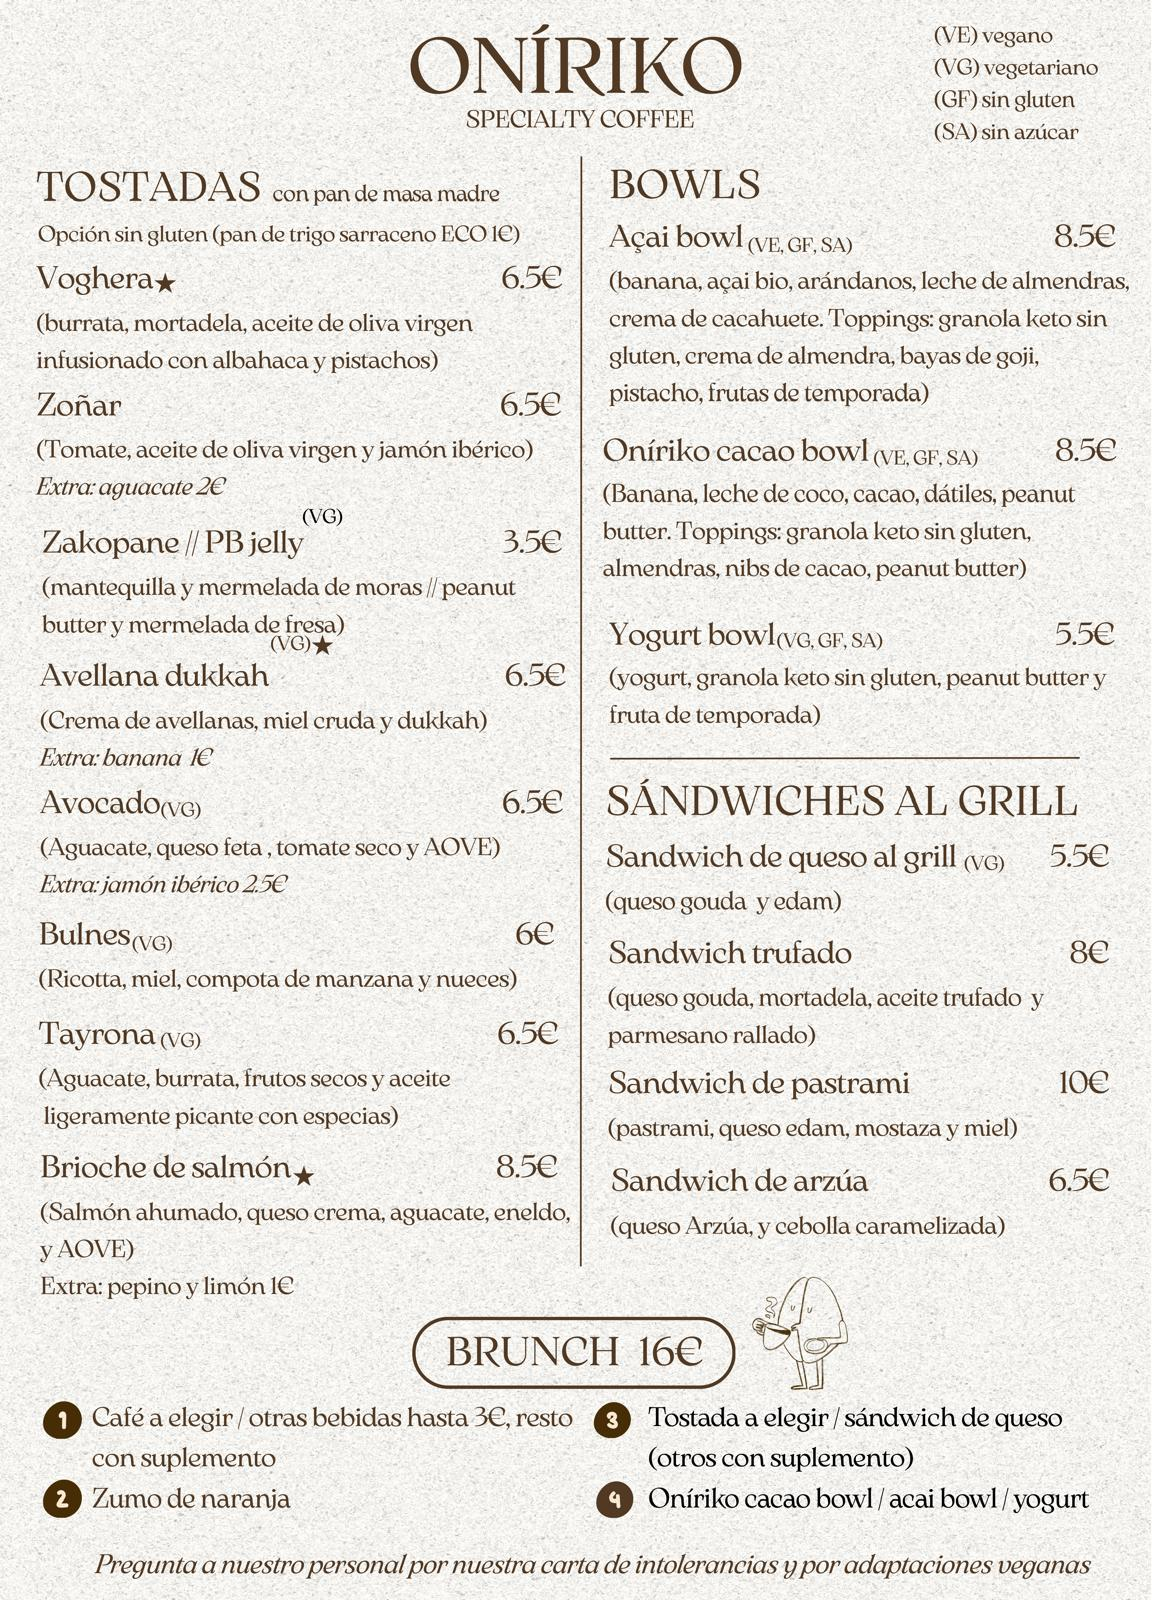
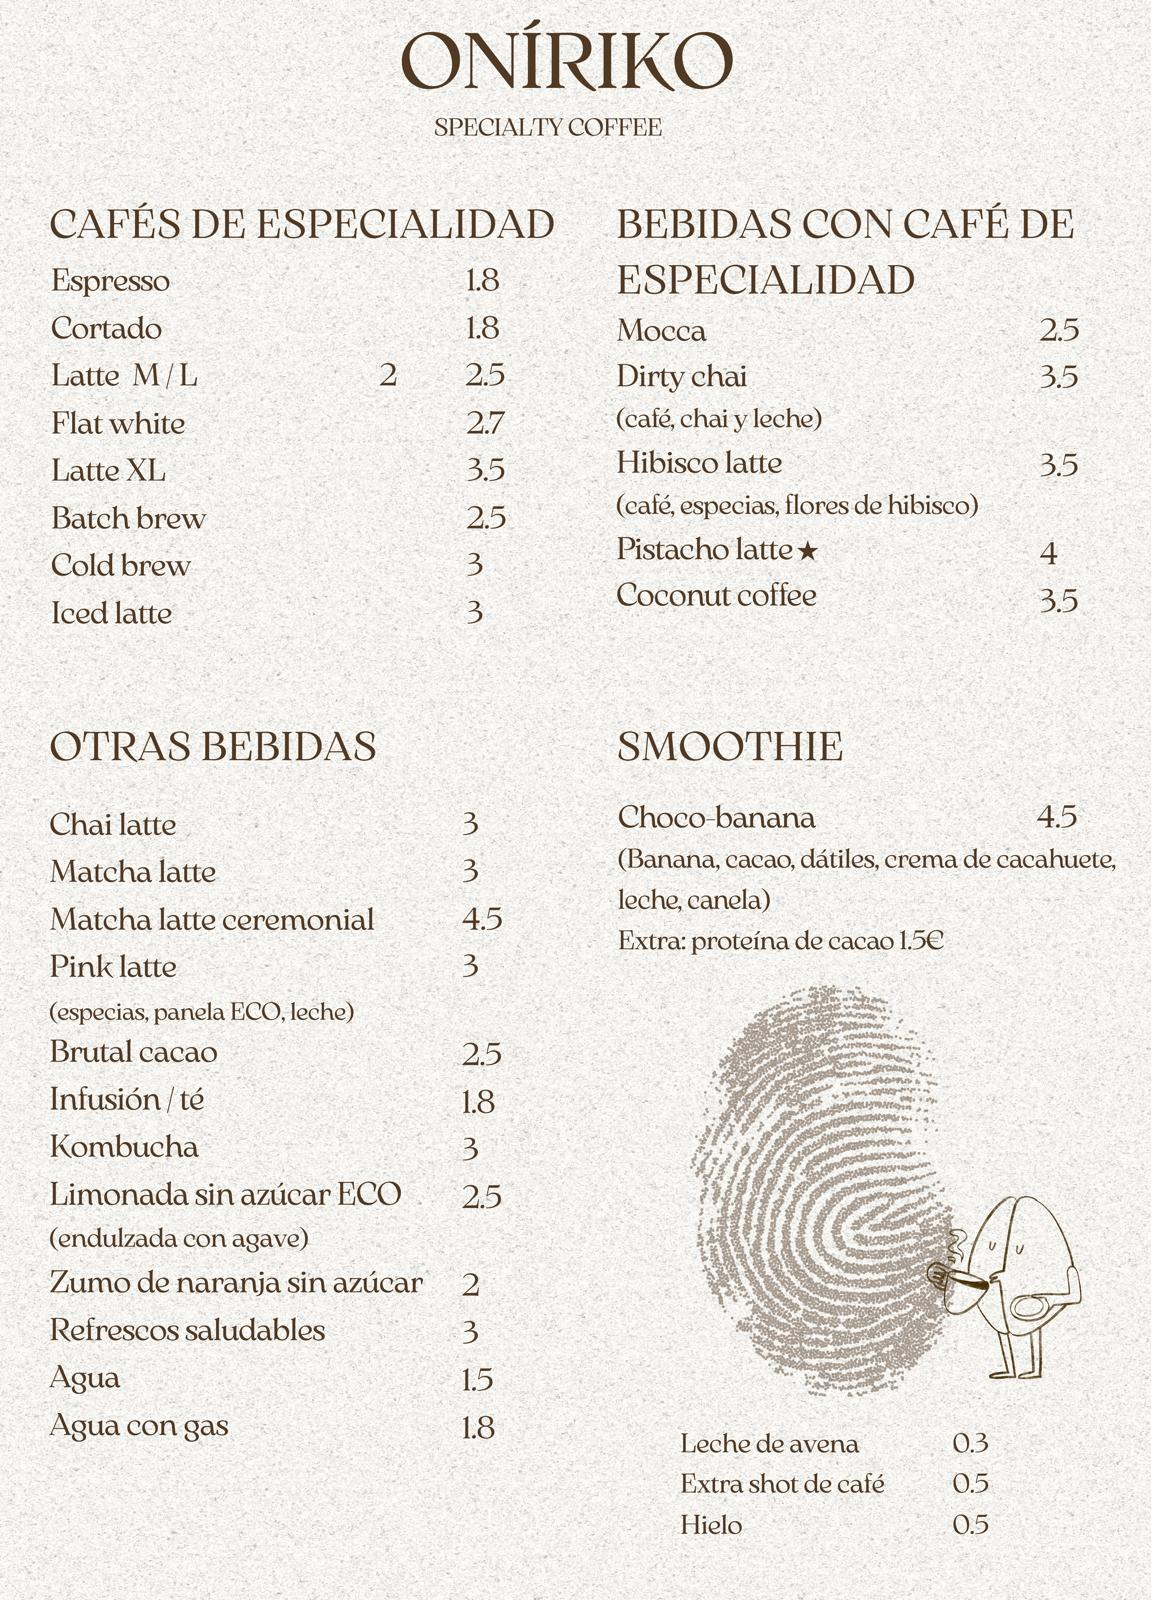
feat: update contact info, fix menu images layout and implement server-side email handling

Changed region(s): [[0.0312, 0.0, 0.9688, 1.0], [0.8125, 0.0, 0.9375, 0.0938], [0.9062, 0.6562, 0.9688, 0.6875]]

diff --git a/src/sections/Menu.tsx b/src/sections/Menu.tsx
@@ -1,15 +1,31 @@
-import { motion } from "framer-motion";
-import { Sparkles } from "lucide-react";
+import { useState } from "react";
+import { motion, AnimatePresence } from "framer-motion";
 
 import { Container, Section } from "../components/Layout";
 import { Reveal } from "../components/Reveal";
 import { SectionHeader } from "../components/SectionHeader";
-import { menu } from "../data/menu";
-import { staggerContainer } from "../hooks/motion";
 import { useLanguage } from "../i18n/LanguageContext";
 
 export const Menu = () => {
   const { t } = useLanguage();
+  const [selectedImage, setSelectedImage] = useState<string | null>(null);
+  
+  const season = import.meta.env.VITE_CURRENT_SEASON || "verano";
+  const menuImages = [
+    {
+      src: `/img/menu/${season}/carta.jpeg`,
+      alt: `Carta de ${season}`,
+    },
+    {
+      src: "/img/carta/carta_img1.jpeg",
+      alt: "Carta Oníriko 1",
+    },
+    {
+      src: "/img/carta/carta_img2.jpeg",
+      alt: "Carta Oníriko 2",
+    },
+  ];
+
   return (
     <Section id="menu" tone="default" spacing="lg">
       <Container>
@@ -21,90 +37,59 @@ export const Menu = () => {
           />
         </Reveal>
 
-        <div className="space-y-24 sm:space-y-32">
-          {menu.map((cat, i) => {
-            const reverse = i % 2 === 1;
-            return (
-              <article
-                key={cat.id}
-                id={cat.id}
-                className="grid items-center gap-10 lg:grid-cols-[1fr_1.2fr] lg:gap-16"
+        <div className="grid grid-cols-1 md:grid-cols-3 gap-6 sm:gap-8">
+          {menuImages.map((img, i) => (
+            <Reveal
+              key={i}
+              variant="scale-in"
+              className="relative group"
+            >
+              <div 
+                className="relative overflow-hidden rounded-lg shadow-lg bg-cream-100 transition-transform duration-500 group-hover:scale-[1.02] cursor-pointer"
+                onClick={() => setSelectedImage(img.src)}
               >
-                <Reveal
-                  variant="scale-in"
-                  className={`relative ${reverse ? "lg:order-2" : ""}`}
-                >
-                  <div className="relative aspect-[4/5] overflow-hidden rounded-lg">
-                    <img
-                      src={cat.cover}
-                      alt={cat.title}
-                      loading="lazy"
-                      className="h-full w-full object-cover"
-                    />
-                  </div>
-                  <div className="absolute -bottom-4 -right-4 hidden h-32 w-32 rounded-full bg-sand/90 blur-2xl sm:block" />
-                </Reveal>
-
-                <Reveal
-                  className={reverse ? "lg:order-1" : ""}
-                  delay={0.05}
-                >
-                  <p className="eyebrow">{cat.eyebrow}</p>
-                  <h3 className="heading-section mt-3 text-balance">
-                    {cat.title}
-                  </h3>
-                  <p className="lead mt-4 max-w-xl text-balance">
-                    {cat.description}
-                  </p>
-
-                  <motion.ul
-                    variants={staggerContainer(0.06, 0.1)}
-                    initial="hidden"
-                    whileInView="visible"
-                    viewport={{ once: true, amount: 0.15 }}
-                    className="mt-8 divide-y divide-espresso/10 border-t border-espresso/10"
-                  >
-                    {cat.products.map((p) => (
-                      <motion.li
-                        key={p.name}
-                        variants={{
-                          hidden: { opacity: 0, y: 14 },
-                          visible: {
-                            opacity: 1,
-                            y: 0,
-                            transition: {
-                              duration: 0.6,
-                              ease: [0.22, 1, 0.36, 1],
-                            },
-                          },
-                        }}
-                        className="grid grid-cols-[1fr_auto] items-baseline gap-6 py-4"
-                      >
-                        <div>
-                          <h4 className="flex items-center gap-2 font-serif text-lg text-espresso">
-                            {p.name}
-                            {p.tag && (
-                              <span className="inline-flex items-center gap-1 rounded-full bg-sand/20 px-2 py-0.5 text-[10px] uppercase tracking-widest text-sand-dark">
-                                <Sparkles size={10} strokeWidth={1.5} />
-                                {p.tag}
-                              </span>
-                            )}
-                          </h4>
-                          <p className="body mt-1">{p.description}</p>
-                        </div>
-                        {p.price && (
-                          <span className="font-serif text-base text-espresso/80">
-                            {p.price}
-                          </span>
-                        )}
-                      </motion.li>
-                    ))}
-                  </motion.ul>
-                </Reveal>
-              </article>
-            );
-          })}
+                <img
+                  src={img.src}
+                  alt={img.alt}
+                  loading="lazy"
+                  className="w-full h-auto block"
+                />
+              </div>
+            </Reveal>
+          ))}
         </div>
+
+        <AnimatePresence>
+        {selectedImage && (
+        <motion.div
+        initial={{ opacity: 0 }}
+        animate={{ opacity: 1 }}
+        exit={{ opacity: 0 }}
+        className="fixed inset-0 z-[100] flex items-center justify-center bg-espresso/95 backdrop-blur-lg p-4 sm:p-10"
+        onClick={() => setSelectedImage(null)}
+        >
+        <motion.div 
+        initial={{ scale: 0.9, opacity: 0 }}
+        animate={{ scale: 1, opacity: 1 }}
+        exit={{ scale: 0.9, opacity: 0 }}
+        className="relative max-w-4xl w-full max-h-[90vh] flex flex-col justify-center"
+        onClick={(e) => e.stopPropagation()}
+        >
+        <img 
+        src={selectedImage} 
+        className="w-full h-auto max-h-[80vh] object-contain rounded-lg shadow-2xl" 
+        alt="Menu expanded" 
+        />
+        <button 
+        className="absolute -top-12 right-0 text-cream-50 text-sm uppercase tracking-widest hover:text-sand transition-colors"
+        onClick={() => setSelectedImage(null)}
+        >
+        Cerrar
+        </button>
+        </motion.div>
+        </motion.div>
+        )}
+        </AnimatePresence>
       </Container>
     </Section>
   );

diff --git a/src/data/gallery.ts b/src/data/gallery.ts
@@ -13,28 +13,16 @@ export const galleryItems: GalleryItem[] = [
     category: "brunch",
   },
   {
-    src: "/img/bakery_propia/bakery_propia_img1.jpeg",
-    alt: "Bollería artesana",
-    caption: "Recién horneado",
-    category: "bakery",
-  },
-  {
-    src: "/img/carta/carta_img2.jpeg",
-    alt: "Latte Art",
-    caption: "Precisión en cada taza",
-    category: "cafe",
-  },
-  {
     src: "/img/pet_friendly/pet_friendly_img1.jpeg",
     alt: "Perro acompañando",
     caption: "Bienvenidos todos",
     category: "pet",
   },
   {
-    src: "/img/brunch/brunch_img5.jpeg",
-    alt: "Tostadas de aguacate",
-    caption: "Tostadas frescas",
-    category: "brunch",
+    src: "/img/bakery_propia/bakery_propia_img1.jpeg",
+    alt: "Bollería artesana",
+    caption: "Recién horneado",
+    category: "bakery",
   },
   {
     src: "/img/eventos/eventos_img3.jpeg",
@@ -47,12 +35,6 @@ export const galleryItems: GalleryItem[] = [
     alt: "Croissant dorado",
     caption: "Dorado perfecto",
     category: "bakery",
-  },
-  {
-    src: "/img/carta/carta_img3.jpeg",
-    alt: "Filtro de especialidad",
-    caption: "Aroma intenso",
-    category: "cafe",
   },
   {
     src: "/img/pet_friendly/pet_friendly_img5.jpeg",
@@ -68,8 +50,8 @@ export const galleryItems: GalleryItem[] = [
   },
   {
     src: "/img/bakery_propia/bakery_propia_img2.jpeg",
-    alt: "Hogaza de masa madre",
-    caption: "El pan perfecto",
+    alt: "De masa madre",
+    caption: "Galletas caseras",
     category: "bakery",
   },
   {

diff --git a/src/sections/Extras.tsx b/src/sections/Extras.tsx
@@ -64,13 +64,18 @@ export const Extras = () => {
               </h2>
               <p className="lead mt-5 text-balance">{t.extras.eventsText}</p>
               <div className="mt-8 flex flex-wrap gap-3">
-                <a href="https://instagram.com" className="btn-primary">
+              <a 
+              href="https://instagram.com/onirikocoffee" 
+                target="_blank" 
+                rel="noopener noreferrer" 
+              className="btn-primary"
+              >
                   {t.extras.eventsCta1}
-                </a>
-                <a href="#contacto" className="btn-outline">
-                  {t.extras.eventsCta2}
-                </a>
-              </div>
+                  </a>
+                  <a href="#contacto" className="btn-outline">
+                    {t.extras.eventsCta2}
+                  </a>
+                </div>
               <div className="mt-10 flex items-start gap-3 text-sm text-espresso/70">
                 <Megaphone size={16} className="mt-0.5 text-sand-dark" strokeWidth={1.5} />
                 <span>{t.extras.eventsNote}</span>
